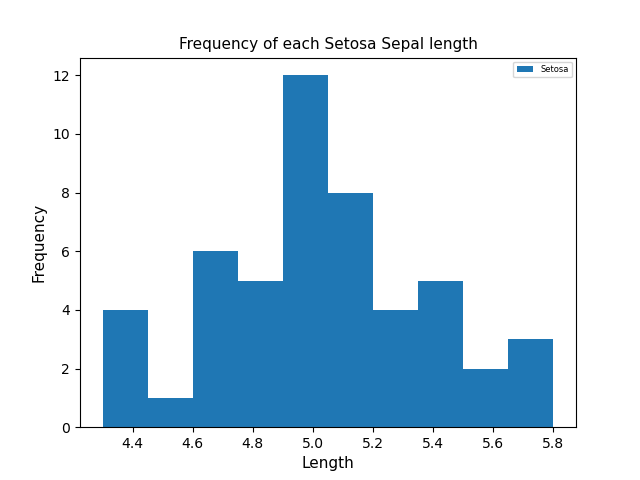
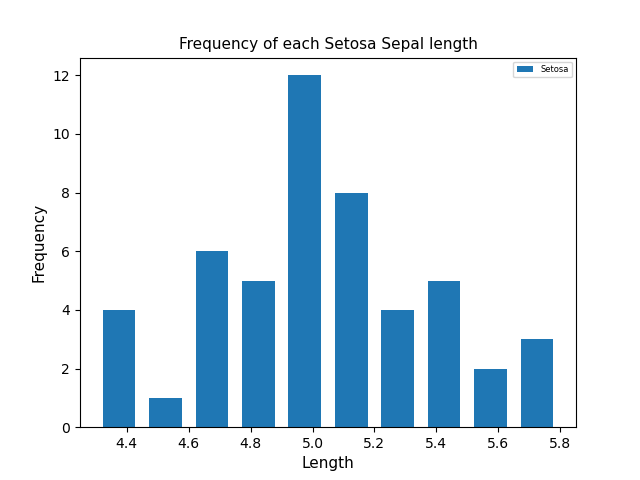
added rwidth to add spacing in the histogram plots

diff --git a/analysis.py b/analysis.py
@@ -20,15 +20,6 @@ fs=11 # font size for the plot text
 legend_fs=6  # font size for the legend text
 
 
-#def yes_or_no from https://stackoverflow.com/questions/47735267/while-loop-with-yes-no-input-python
-def yes_or_no(question):
-    reply = str(input(question+' (y/n): ')).lower().strip()
-    if reply[0] == 'y':
-        return 1
-    elif reply[0] == 'n':
-        return 0
-    else:
-        return yes_or_no("Please Enter (y/n): ")
      
 # function that takes in a dataset and filename 
 # and saves the plot to a PDF file.
@@ -208,7 +199,7 @@ plt.close()
 ######################################
 
 #SETOSA CLASS - SEPAL WIDTH plot
-plt.hist([setosa_sepalWidth_data])
+plt.hist([setosa_sepalWidth_data], rwidth=0.7) #use rwidth to add space in histogram as per https://www.geeksforgeeks.org/add-space-between-histogram-bars-in-matplotlib/)
 plt.title('Frequency of each Setosa Sepal width', fontsize=fs)
 plt.ylabel('Frequency', fontsize=fs)
 plt.xlabel('Width', fontsize=fs)
@@ -219,7 +210,7 @@ if display_plots_to_screen: plt.show()
 plt.close()
 
 #SETOSA CLASS - SEPAL LENGTH plot
-plt.hist([setosa_sepalLen_data])
+plt.hist([setosa_sepalLen_data], rwidth=0.7) #use rwidth to add space in histogram as per https://www.geeksforgeeks.org/add-space-between-histogram-bars-in-matplotlib/)
 plt.title('Frequency of each Setosa Sepal length', fontsize=fs)
 plt.ylabel('Frequency', fontsize=fs)
 plt.xlabel('Length', fontsize=fs)
@@ -230,7 +221,7 @@ if display_plots_to_screen: plt.show()
 plt.close()
 
 #SETOSA CLASS - PETAL WIDTH plot
-plt.hist([setosa_PetalWidth_data])
+plt.hist([setosa_PetalWidth_data], rwidth=0.7) #use rwidth to add space in histogram as per https://www.geeksforgeeks.org/add-space-between-histogram-bars-in-matplotlib/)
 plt.title('Frequency of each Setosa Petal width', fontsize=fs)
 plt.ylabel('Frequency', fontsize=fs)
 plt.xlabel('Width', fontsize=fs)
@@ -241,12 +232,15 @@ if display_plots_to_screen: plt.show()
 plt.close()
 
 #SETOSA CLASS - PETAL LENGTH plot
-plt.hist([setosa_PetalLen_data])
+plt.hist([setosa_PetalLen_data], rwidth=0.7) #use rwidth to add space in histogram as per https://www.geeksforgeeks.org/add-space-between-histogram-bars-in-matplotlib/
 plt.title('Frequency of each Setosa Petal length', fontsize=fs)
 plt.ylabel('Frequency', fontsize=fs)
 plt.xlabel('Length', fontsize=fs)
 plt.legend(title='Class of Setosa iris')
 plt.legend(['Setosa'], fontsize = legend_fs)
+#plt.width = 1
+#plt.tight_layout()
+#plt.figsize=(2,5) # ref https://matplotlib.org/stable/api/_as_gen/matplotlib.pyplot.figure.html
 plt.savefig("frequency_setosa_Petal_length.png", format="png")
 if display_plots_to_screen: plt.show()
 plt.close()
@@ -257,7 +251,7 @@ plt.close()
 ######################################
 
 #VERISICOLOR CLASS - SEPAL WIDTH plot
-plt.hist([versicolor_sepalWidth_data])
+plt.hist([versicolor_sepalWidth_data], rwidth=0.7) #use rwidth to add space in histogram as per https://www.geeksforgeeks.org/add-space-between-histogram-bars-in-matplotlib/)
 plt.title('Frequency of each versicolor Sepal width', fontsize=fs)
 plt.ylabel('Frequency', fontsize=fs)
 plt.xlabel('Width', fontsize=fs)
@@ -268,7 +262,7 @@ if display_plots_to_screen: plt.show()
 plt.close()
 
 #VERISICOLOR CLASS - SEPAL LENGTH plot
-plt.hist([versicolor_sepalLen_data])
+plt.hist([versicolor_sepalLen_data], rwidth=0.7) #use rwidth to add space in histogram as per https://www.geeksforgeeks.org/add-space-between-histogram-bars-in-matplotlib/)
 plt.title('Frequency of each versicolor Sepal length', fontsize=fs)
 plt.ylabel('Frequency', fontsize=fs)
 plt.xlabel('Length', fontsize=fs)
@@ -279,7 +273,7 @@ if display_plots_to_screen: plt.show()
 plt.close()
 
 #VERISICOLOR CLASS - PETAL WIDTH plot
-plt.hist([versicolor_PetalWidth_data])
+plt.hist([versicolor_PetalWidth_data], rwidth=0.7) #use rwidth to add space in histogram as per https://www.geeksforgeeks.org/add-space-between-histogram-bars-in-matplotlib/)
 plt.title('Frequency of each versicolor Petal width', fontsize=fs)
 plt.ylabel('Frequency', fontsize=fs)
 plt.xlabel('Width', fontsize=fs)
@@ -290,7 +284,7 @@ if display_plots_to_screen: plt.show()
 plt.close()
 
 #VERISICOLOR CLASS - PETAL LENGTH plot
-plt.hist([versicolor_PetalLen_data])
+plt.hist([versicolor_PetalLen_data], rwidth=0.7) #use rwidth to add space in histogram as per https://www.geeksforgeeks.org/add-space-between-histogram-bars-in-matplotlib/)
 plt.title('Frequency of each versicolor Petal length', fontsize=fs)
 plt.ylabel('Frequency', fontsize=fs)
 plt.xlabel('Length', fontsize=fs)
@@ -308,7 +302,7 @@ plt.close()
 ######################################
 
 #VIRGINICA CLASS - SEPAL WIDTH plot
-plt.hist([virginica_sepalWidth_data])
+plt.hist([virginica_sepalWidth_data], rwidth=0.7) #use rwidth to add space in histogram as per https://www.geeksforgeeks.org/add-space-between-histogram-bars-in-matplotlib/)
 plt.title('Frequency of each Virginica Sepal width', fontsize=fs)
 plt.ylabel('Frequency', fontsize=fs)
 plt.xlabel('Width', fontsize=fs)
@@ -319,7 +313,7 @@ if display_plots_to_screen: plt.show()
 plt.close()
 
 #VIRGINICA CLASS - SEPAL LENGTH plot
-plt.hist([virginica_sepalLen_data])
+plt.hist([virginica_sepalLen_data], rwidth=0.7) #use rwidth to add space in histogram as per https://www.geeksforgeeks.org/add-space-between-histogram-bars-in-matplotlib/)
 plt.title('Frequency of each Virginica Sepal length', fontsize=fs)
 plt.ylabel('Frequency', fontsize=fs)
 plt.xlabel('Length', fontsize=fs)
@@ -330,7 +324,7 @@ if display_plots_to_screen: plt.show()
 plt.close()
 
 #VIRGINICA CLASS - PETAL WIDTH plot
-plt.hist([virginica_PetalWidth_data])
+plt.hist([virginica_PetalWidth_data], rwidth=0.7) #use rwidth to add space in histogram as per https://www.geeksforgeeks.org/add-space-between-histogram-bars-in-matplotlib/)
 plt.title('Frequency of each Virginica Petal width', fontsize=fs)
 plt.ylabel('Frequency', fontsize=fs)
 plt.xlabel('Width', fontsize=fs)
@@ -341,7 +335,7 @@ if display_plots_to_screen: plt.show()
 plt.close()
 
 #VIRGINICA CLASS - PETAL LENGTH plot
-plt.hist([virginica_PetalLen_data])
+plt.hist([virginica_PetalLen_data], rwidth=0.7) #use rwidth to add space in histogram as per https://www.geeksforgeeks.org/add-space-between-histogram-bars-in-matplotlib/)
 plt.title('Frequency of each Virginica Petal length', fontsize=fs)
 plt.ylabel('Frequency', fontsize=fs)
 plt.xlabel('Length', fontsize=fs)
